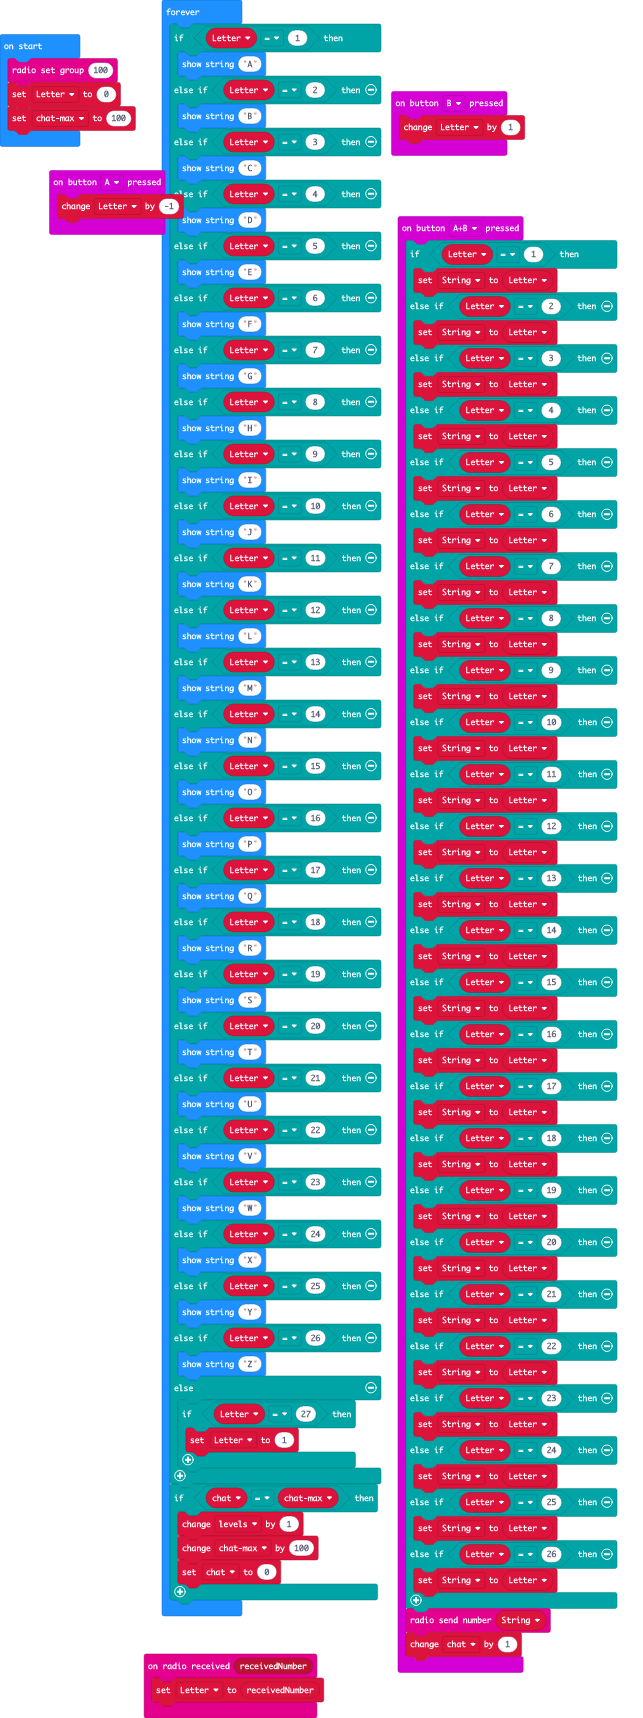
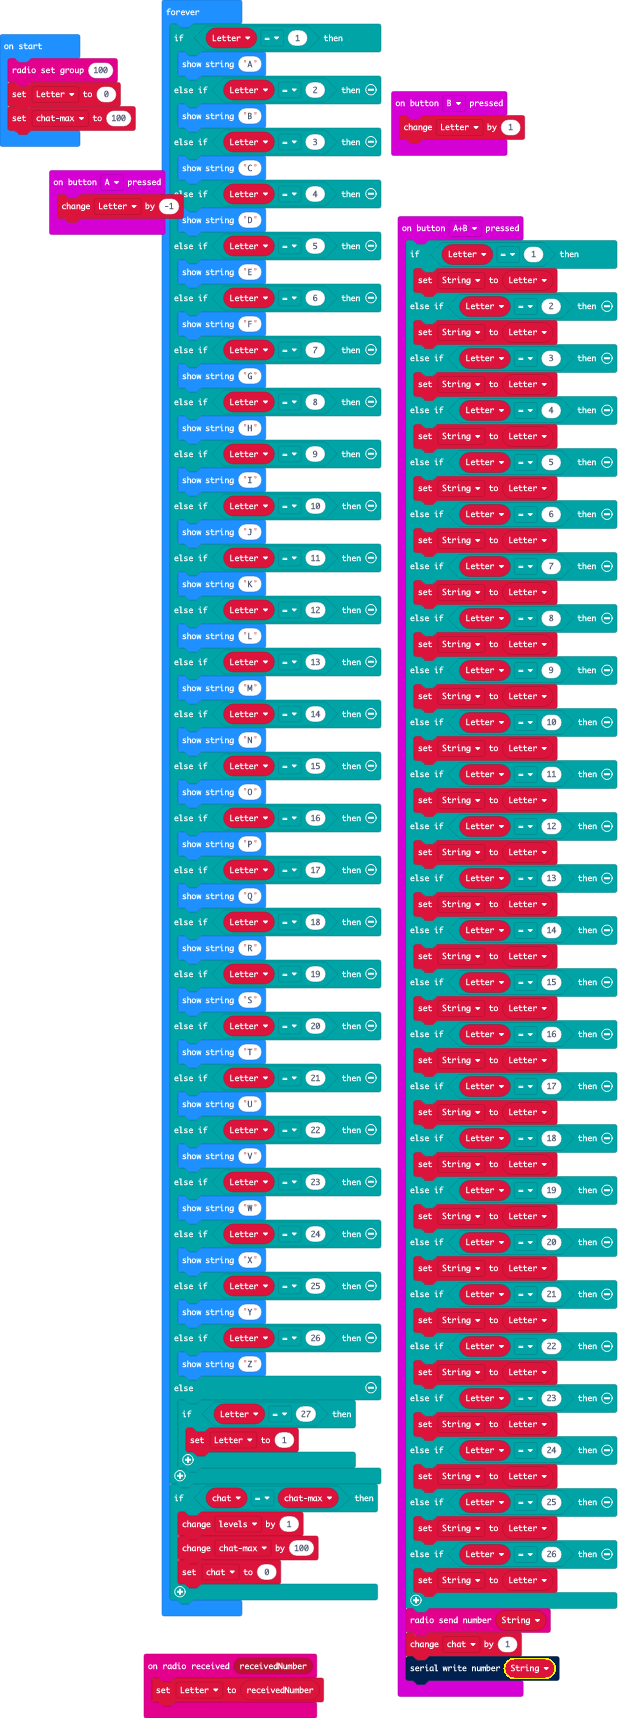
Update main.blocks, main.ts

Changed region(s): [[0.6221, 0.9563, 0.8709, 0.9872]]

diff --git a/main.ts b/main.ts
@@ -60,6 +60,7 @@ input.onButtonPressed(Button.AB, function () {
     }
     radio.sendNumber(String2)
     chat += 1
+    serial.writeNumber(String2)
 })
 input.onButtonPressed(Button.B, function () {
     Letter += 1
